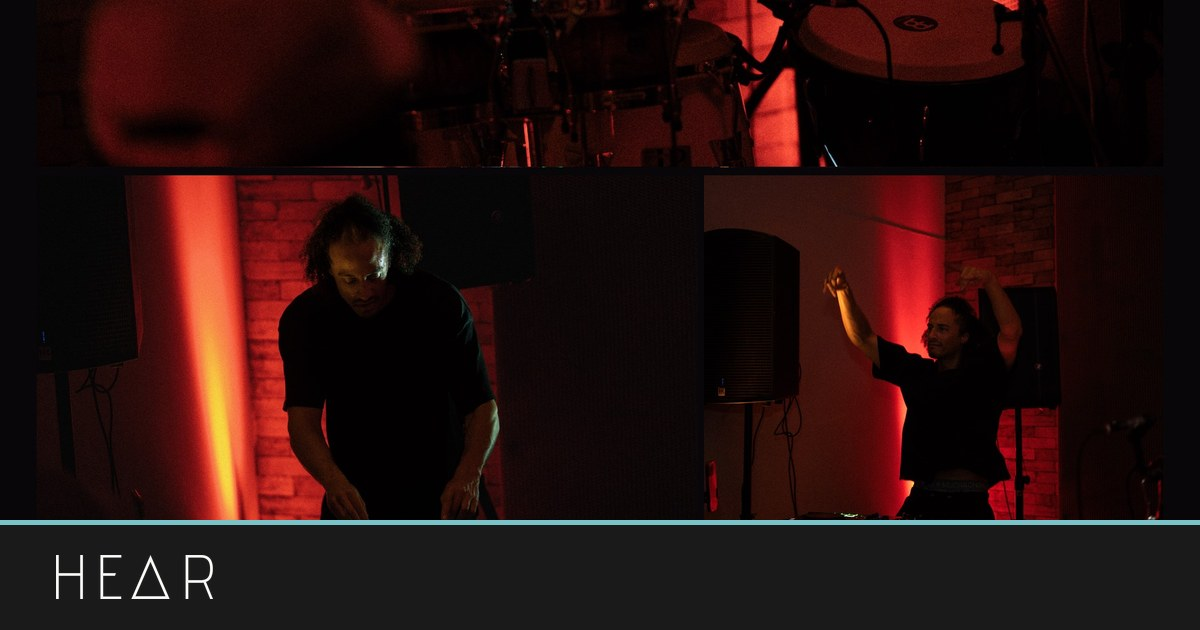
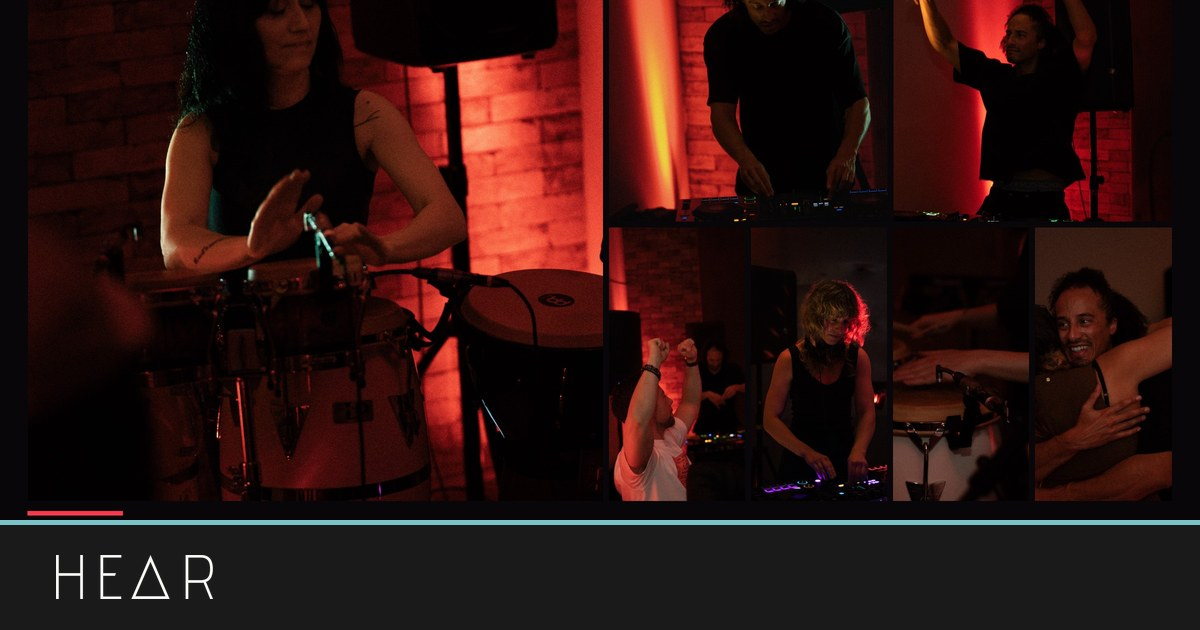
Raw Drums: liggende collage op desktop en in tegels, staande op mobiel (beeld_m)
Claude-Session: https://claude.ai/code/session_01JrXoYcMPPcQnaMa6rutHsx

diff --git a/site/index.html b/site/index.html
@@ -148,7 +148,7 @@
     </div>
   </section>
 
-  <!--nieuws-home--><section class="nieuws-home" aria-labelledby="nieuws-kop"><div class="werk-kop"><h2 id="nieuws-kop">Nieuws en achtergronden</h2><div class="nieuws-pijlen"><button type="button" data-richting="-1" aria-label="Vorige berichten">←</button><button type="button" data-richting="1" aria-label="Volgende berichten">→</button></div></div><div class="werk-rij nieuws-rij" id="nieuws-rij"><a class="werk-kaart" href="/en/nieuws/raw-drums-ade.html"><span class="werk-beeld"><img src="img/nieuws/raw-drums-ade-collage.jpg" alt="Collage van Raw Drums by Melandru tijdens ADE 2026: percussionisten, dj&#x27;s en publiek in rood licht" loading="lazy" style="object-position:center 18%"><span class="bekijk-case">Lees het bericht<i aria-hidden="true">→</i></span></span><time datetime="2026-11-05">5 november 2026</time><h3>HEAR kleurt Raw Drums in dramatisch rood</h3></a><a class="werk-kaart" href="/nieuws/kxm-25-a-floormonitor.html"><span class="werk-beeld"><img src="img/nieuws/kxm-25-a-concert.jpg" alt="RCF KXM 25-A floormonitor met een festivalpodium op de achtergrond" loading="lazy" style="object-position:center 60%"><span class="bekijk-case">Lees het bericht<i aria-hidden="true">→</i></span></span><time datetime="2026-10-17">17 oktober 2026</time><h3>Nieuw in de booth: RCF KXM <span class="heel">25-A</span> floormonitor</h3></a><a class="werk-kaart" href="/nieuws/twee-sets-808-515.html"><span class="werk-beeld"><img src="img/nieuws/808-515-set.jpg" alt="RCF KX 515-A top op een afstandsbuis boven een SUB 808-AS, net uitgepakt" loading="lazy"><span class="bekijk-case">Lees het bericht<i aria-hidden="true">→</i></span></span><time datetime="2026-10-17">17 oktober 2026</time><h3>Nieuw in huis: twee sets RCF SUB <span class="heel">808-AS</span> met KX <span class="heel">515-A</span></h3></a><a class="werk-kaart" href="/prijs.html"><span class="werk-beeld"><img src="img/diensten/yamaha-dm3.jpg" alt="Yamaha DM3 digitale mengtafel" loading="lazy"><span class="bekijk-case">Lees het bericht<i aria-hidden="true">→</i></span></span><time datetime="2026-10-16">16 oktober 2026</time><h3>Wat kost audiovisuele ondersteuning van een evenement eigenlijk?</h3></a><a class="werk-kaart werk-alle" href="/nieuws/"><span>Nieuws en achtergronden</span><span class="pijl" aria-hidden="true">→</span></a></div><script>(function(){var r=document.getElementById("nieuws-rij");document.querySelectorAll(".nieuws-pijlen button").forEach(function(k){k.addEventListener("click",function(){var c=r.querySelector(".werk-kaart");var s=c?c.getBoundingClientRect().width+22:400;r.scrollBy({left:s*k.dataset.richting,behavior:"smooth"});});});})();</script></section><!--/nieuws-home-->
+  <!--nieuws-home--><section class="nieuws-home" aria-labelledby="nieuws-kop"><div class="werk-kop"><h2 id="nieuws-kop">Nieuws en achtergronden</h2><div class="nieuws-pijlen"><button type="button" data-richting="-1" aria-label="Vorige berichten">←</button><button type="button" data-richting="1" aria-label="Volgende berichten">→</button></div></div><div class="werk-rij nieuws-rij" id="nieuws-rij"><a class="werk-kaart" href="/en/nieuws/raw-drums-ade.html"><span class="werk-beeld"><img src="img/nieuws/raw-drums-ade-liggend.jpg" alt="Collage van Raw Drums by Melandru tijdens ADE 2026: percussionisten, dj&#x27;s en publiek in rood licht" loading="lazy"><span class="bekijk-case">Lees het bericht<i aria-hidden="true">→</i></span></span><time datetime="2026-11-05">5 november 2026</time><h3>HEAR kleurt Raw Drums in dramatisch rood</h3></a><a class="werk-kaart" href="/nieuws/kxm-25-a-floormonitor.html"><span class="werk-beeld"><img src="img/nieuws/kxm-25-a-concert.jpg" alt="RCF KXM 25-A floormonitor met een festivalpodium op de achtergrond" loading="lazy" style="object-position:center 60%"><span class="bekijk-case">Lees het bericht<i aria-hidden="true">→</i></span></span><time datetime="2026-10-17">17 oktober 2026</time><h3>Nieuw in de booth: RCF KXM <span class="heel">25-A</span> floormonitor</h3></a><a class="werk-kaart" href="/nieuws/twee-sets-808-515.html"><span class="werk-beeld"><img src="img/nieuws/808-515-set.jpg" alt="RCF KX 515-A top op een afstandsbuis boven een SUB 808-AS, net uitgepakt" loading="lazy"><span class="bekijk-case">Lees het bericht<i aria-hidden="true">→</i></span></span><time datetime="2026-10-17">17 oktober 2026</time><h3>Nieuw in huis: twee sets RCF SUB <span class="heel">808-AS</span> met KX <span class="heel">515-A</span></h3></a><a class="werk-kaart" href="/prijs.html"><span class="werk-beeld"><img src="img/diensten/yamaha-dm3.jpg" alt="Yamaha DM3 digitale mengtafel" loading="lazy"><span class="bekijk-case">Lees het bericht<i aria-hidden="true">→</i></span></span><time datetime="2026-10-16">16 oktober 2026</time><h3>Wat kost audiovisuele ondersteuning van een evenement eigenlijk?</h3></a><a class="werk-kaart werk-alle" href="/nieuws/"><span>Nieuws en achtergronden</span><span class="pijl" aria-hidden="true">→</span></a></div><script>(function(){var r=document.getElementById("nieuws-rij");document.querySelectorAll(".nieuws-pijlen button").forEach(function(k){k.addEventListener("click",function(){var c=r.querySelector(".werk-kaart");var s=c?c.getBoundingClientRect().width+22:400;r.scrollBy({left:s*k.dataset.richting,behavior:"smooth"});});});})();</script></section><!--/nieuws-home-->
 
   <section class="afsluiter afsluiter-kort" aria-label="Contact">
     <span class="wa-plus"><a class="wa" href="aanvraag.html"><span>Plan een gesprek</span><i aria-hidden="true">→</i></a><a class="mail-ook" href="https://wa.me/31624560220?text=Hoi%20Maarten%2C%20ik%20heb%20een%20vraag%20over%20HEAR%20voor%20mijn%20event." target="_blank" rel="noopener" data-whatsapp>Korte vraag? Stuur een appje</a></span>

diff --git a/site/en/index.html b/site/en/index.html
@@ -148,7 +148,7 @@
     </div>
   </section>
 
-  <!--nieuws-home--><section class="nieuws-home" aria-labelledby="nieuws-kop"><div class="werk-kop"><h2 id="nieuws-kop">News and background</h2><div class="nieuws-pijlen"><button type="button" data-richting="-1" aria-label="Previous posts">←</button><button type="button" data-richting="1" aria-label="Next posts">→</button></div></div><div class="werk-rij nieuws-rij" id="nieuws-rij"><a class="werk-kaart" href="/en/nieuws/raw-drums-ade.html"><span class="werk-beeld"><img src="/img/nieuws/raw-drums-ade-collage.jpg" alt="Collage of Raw Drums by Melandru at ADE 2026: percussionists, DJs and crowd in red light" loading="lazy" style="object-position:center 18%"><span class="bekijk-case">Read the post<i aria-hidden="true">→</i></span></span><time datetime="2026-11-05">5 November 2026</time><h3>HEAR colours Raw Drums in dramatic reds</h3></a><a class="werk-kaart" href="/en/nieuws/kxm-25-a-floormonitor.html"><span class="werk-beeld"><img src="/img/nieuws/kxm-25-a-concert.jpg" alt="RCF KXM 25-A floor monitor with a festival stage in the background" loading="lazy" style="object-position:center 60%"><span class="bekijk-case">Read the post<i aria-hidden="true">→</i></span></span><time datetime="2026-10-17">17 October 2026</time><h3>New in the booth: RCF KXM <span class="heel">25-A</span> floor monitor</h3></a><a class="werk-kaart" href="/en/nieuws/twee-sets-808-515.html"><span class="werk-beeld"><img src="/img/nieuws/808-515-set.jpg" alt="RCF KX 515-A top on a pole above a SUB 808-AS, freshly unpacked" loading="lazy"><span class="bekijk-case">Read the post<i aria-hidden="true">→</i></span></span><time datetime="2026-10-17">17 October 2026</time><h3>New in: two sets of RCF SUB <span class="heel">808-AS</span> with KX <span class="heel">515-A</span></h3></a><a class="werk-kaart" href="/en/prijs.html"><span class="werk-beeld"><img src="/img/diensten/yamaha-dm3.jpg" alt="Yamaha DM3 digital mixing console" loading="lazy"><span class="bekijk-case">Read the post<i aria-hidden="true">→</i></span></span><time datetime="2026-10-16">16 October 2026</time><h3>What does audiovisual support for an event actually cost?</h3></a><a class="werk-kaart werk-alle" href="/en/nieuws/"><span>News and background</span><span class="pijl" aria-hidden="true">→</span></a></div><script>(function(){var r=document.getElementById("nieuws-rij");document.querySelectorAll(".nieuws-pijlen button").forEach(function(k){k.addEventListener("click",function(){var c=r.querySelector(".werk-kaart");var s=c?c.getBoundingClientRect().width+22:400;r.scrollBy({left:s*k.dataset.richting,behavior:"smooth"});});});})();</script></section><!--/nieuws-home-->
+  <!--nieuws-home--><section class="nieuws-home" aria-labelledby="nieuws-kop"><div class="werk-kop"><h2 id="nieuws-kop">News and background</h2><div class="nieuws-pijlen"><button type="button" data-richting="-1" aria-label="Previous posts">←</button><button type="button" data-richting="1" aria-label="Next posts">→</button></div></div><div class="werk-rij nieuws-rij" id="nieuws-rij"><a class="werk-kaart" href="/en/nieuws/raw-drums-ade.html"><span class="werk-beeld"><img src="/img/nieuws/raw-drums-ade-liggend.jpg" alt="Collage of Raw Drums by Melandru at ADE 2026: percussionists, DJs and crowd in red light" loading="lazy"><span class="bekijk-case">Read the post<i aria-hidden="true">→</i></span></span><time datetime="2026-11-05">5 November 2026</time><h3>HEAR colours Raw Drums in dramatic reds</h3></a><a class="werk-kaart" href="/en/nieuws/kxm-25-a-floormonitor.html"><span class="werk-beeld"><img src="/img/nieuws/kxm-25-a-concert.jpg" alt="RCF KXM 25-A floor monitor with a festival stage in the background" loading="lazy" style="object-position:center 60%"><span class="bekijk-case">Read the post<i aria-hidden="true">→</i></span></span><time datetime="2026-10-17">17 October 2026</time><h3>New in the booth: RCF KXM <span class="heel">25-A</span> floor monitor</h3></a><a class="werk-kaart" href="/en/nieuws/twee-sets-808-515.html"><span class="werk-beeld"><img src="/img/nieuws/808-515-set.jpg" alt="RCF KX 515-A top on a pole above a SUB 808-AS, freshly unpacked" loading="lazy"><span class="bekijk-case">Read the post<i aria-hidden="true">→</i></span></span><time datetime="2026-10-17">17 October 2026</time><h3>New in: two sets of RCF SUB <span class="heel">808-AS</span> with KX <span class="heel">515-A</span></h3></a><a class="werk-kaart" href="/en/prijs.html"><span class="werk-beeld"><img src="/img/diensten/yamaha-dm3.jpg" alt="Yamaha DM3 digital mixing console" loading="lazy"><span class="bekijk-case">Read the post<i aria-hidden="true">→</i></span></span><time datetime="2026-10-16">16 October 2026</time><h3>What does audiovisual support for an event actually cost?</h3></a><a class="werk-kaart werk-alle" href="/en/nieuws/"><span>News and background</span><span class="pijl" aria-hidden="true">→</span></a></div><script>(function(){var r=document.getElementById("nieuws-rij");document.querySelectorAll(".nieuws-pijlen button").forEach(function(k){k.addEventListener("click",function(){var c=r.querySelector(".werk-kaart");var s=c?c.getBoundingClientRect().width+22:400;r.scrollBy({left:s*k.dataset.richting,behavior:"smooth"});});});})();</script></section><!--/nieuws-home-->
 
   <section class="afsluiter afsluiter-kort" aria-label="Contact">
     <span class="wa-plus"><a class="wa" href="/en/aanvraag.html"><span>Plan a call</span><i aria-hidden="true">→</i></a><a class="mail-ook" href="https://wa.me/31624560220?text=Hi%20Maarten%2C%20I%20have%20a%20question%20about%20HEAR%20for%20my%20event." target="_blank" rel="noopener" data-whatsapp>Quick question? Send a WhatsApp</a></span>

diff --git a/site/nieuws/index.html b/site/nieuws/index.html
@@ -40,7 +40,7 @@
   })();
 </script><main class="wrap">
 <section class="casehead"><a class="crumb" href="/index.html"><span class="sectie">HEAR</span></a><h1>Nieuws en achtergronden</h1></section>
-<section class="case-overzicht"><article class="case-tegel"><img src="/img/nieuws/raw-drums-ade-collage.jpg" alt="Collage van Raw Drums by Melandru tijdens ADE 2026: percussionisten, dj&#x27;s en publiek in rood licht" loading="lazy" style="object-position:center 18%"><div class="case-tekst"><p class="labels"><time datetime="2026-11-05">5 november 2026</time></p><h2><a class="tegel-link" href="/en/nieuws/raw-drums-ade.html">HEAR kleurt Raw Drums in dramatisch rood</a></h2><p>Tijdens ADE bracht Melandru Raw Drums: UK garage/bass house met live percussie, in het rode licht van HEAR.</p><span class="pijl" aria-hidden="true">→</span></div></article><article class="case-tegel"><img src="/img/nieuws/kxm-25-a-concert.jpg" alt="RCF KXM 25-A floormonitor met een festivalpodium op de achtergrond" loading="lazy" style="object-position:center 60%"><div class="case-tekst"><p class="labels"><time datetime="2026-10-17">17 oktober 2026</time></p><h2><a class="tegel-link" href="/nieuws/kxm-25-a-floormonitor.html">Nieuw in de booth: RCF KXM 25-A floormonitor</a></h2><p>Een 15-inch coaxiale floormonitor voor dj&#x27;s die hun monitoring liever onzichtbaar voor het publiek hebben. Krachtig, punchy en coherent.</p><span class="pijl" aria-hidden="true">→</span></div></article><article class="case-tegel"><img src="/img/nieuws/808-515-set.jpg" alt="RCF KX 515-A top op een afstandsbuis boven een SUB 808-AS, net uitgepakt" loading="lazy"><div class="case-tekst"><p class="labels"><time datetime="2026-10-17">17 oktober 2026</time></p><h2><a class="tegel-link" href="/nieuws/twee-sets-808-515.html">Nieuw in huis: twee sets RCF SUB 808-AS met KX 515-A</a></h2><p>Twee compacte sub-topsets die drie dingen kunnen: op zichzelf spelen bij een lezing of intieme cocktailparty, monitoren in de dj-booth, en als frontfill of delay meedraaien in een groter audiosysteem.</p><span class="pijl" aria-hidden="true">→</span></div></article><article class="case-tegel"><img src="/img/diensten/yamaha-dm3.jpg" alt="Yamaha DM3 digitale mengtafel" loading="lazy"><div class="case-tekst"><p class="labels"><time datetime="2026-10-16">16 oktober 2026</time></p><h2><a class="tegel-link" href="/prijs.html">Wat kost audiovisuele ondersteuning van een evenement eigenlijk?</a></h2><p>Bij zakelijke events 10 tot 20 procent van het eventbudget, bij dance events een gangbare huurprijs. Met uurtarieven, dj-tarief en wat de prijs beïnvloedt.</p><span class="pijl" aria-hidden="true">→</span></div></article></section>
+<section class="case-overzicht"><article class="case-tegel"><img src="/img/nieuws/raw-drums-ade-liggend.jpg" alt="Collage van Raw Drums by Melandru tijdens ADE 2026: percussionisten, dj&#x27;s en publiek in rood licht" loading="lazy"><div class="case-tekst"><p class="labels"><time datetime="2026-11-05">5 november 2026</time></p><h2><a class="tegel-link" href="/en/nieuws/raw-drums-ade.html">HEAR kleurt Raw Drums in dramatisch rood</a></h2><p>Tijdens ADE bracht Melandru Raw Drums: UK garage/bass house met live percussie, in het rode licht van HEAR.</p><span class="pijl" aria-hidden="true">→</span></div></article><article class="case-tegel"><img src="/img/nieuws/kxm-25-a-concert.jpg" alt="RCF KXM 25-A floormonitor met een festivalpodium op de achtergrond" loading="lazy" style="object-position:center 60%"><div class="case-tekst"><p class="labels"><time datetime="2026-10-17">17 oktober 2026</time></p><h2><a class="tegel-link" href="/nieuws/kxm-25-a-floormonitor.html">Nieuw in de booth: RCF KXM 25-A floormonitor</a></h2><p>Een 15-inch coaxiale floormonitor voor dj&#x27;s die hun monitoring liever onzichtbaar voor het publiek hebben. Krachtig, punchy en coherent.</p><span class="pijl" aria-hidden="true">→</span></div></article><article class="case-tegel"><img src="/img/nieuws/808-515-set.jpg" alt="RCF KX 515-A top op een afstandsbuis boven een SUB 808-AS, net uitgepakt" loading="lazy"><div class="case-tekst"><p class="labels"><time datetime="2026-10-17">17 oktober 2026</time></p><h2><a class="tegel-link" href="/nieuws/twee-sets-808-515.html">Nieuw in huis: twee sets RCF SUB 808-AS met KX 515-A</a></h2><p>Twee compacte sub-topsets die drie dingen kunnen: op zichzelf spelen bij een lezing of intieme cocktailparty, monitoren in de dj-booth, en als frontfill of delay meedraaien in een groter audiosysteem.</p><span class="pijl" aria-hidden="true">→</span></div></article><article class="case-tegel"><img src="/img/diensten/yamaha-dm3.jpg" alt="Yamaha DM3 digitale mengtafel" loading="lazy"><div class="case-tekst"><p class="labels"><time datetime="2026-10-16">16 oktober 2026</time></p><h2><a class="tegel-link" href="/prijs.html">Wat kost audiovisuele ondersteuning van een evenement eigenlijk?</a></h2><p>Bij zakelijke events 10 tot 20 procent van het eventbudget, bij dance events een gangbare huurprijs. Met uurtarieven, dj-tarief en wat de prijs beïnvloedt.</p><span class="pijl" aria-hidden="true">→</span></div></article></section>
 </main><footer class="voet">
   <div class="voet-kolommen">
     <div class="voet-merk">

diff --git a/site/en/nieuws/index.html b/site/en/nieuws/index.html
@@ -40,7 +40,7 @@
   })();
 </script><main class="wrap">
 <section class="casehead"><a class="crumb" href="/en/index.html"><span class="sectie">HEAR</span></a><h1>News and background</h1></section>
-<section class="case-overzicht"><article class="case-tegel"><img src="/img/nieuws/raw-drums-ade-collage.jpg" alt="Collage of Raw Drums by Melandru at ADE 2026: percussionists, DJs and crowd in red light" loading="lazy" style="object-position:center 18%"><div class="case-tekst"><p class="labels"><time datetime="2026-11-05">5 November 2026</time></p><h2><a class="tegel-link" href="/en/nieuws/raw-drums-ade.html">HEAR colours Raw Drums in dramatic reds</a></h2><p>During ADE, Melandru brought Raw Drums: UK garage/bass house with live percussion, in HEAR&#x27;s red light.</p><span class="pijl" aria-hidden="true">→</span></div></article><article class="case-tegel"><img src="/img/nieuws/kxm-25-a-concert.jpg" alt="RCF KXM 25-A floor monitor with a festival stage in the background" loading="lazy" style="object-position:center 60%"><div class="case-tekst"><p class="labels"><time datetime="2026-10-17">17 October 2026</time></p><h2><a class="tegel-link" href="/en/nieuws/kxm-25-a-floormonitor.html">New in the booth: RCF KXM 25-A floor monitor</a></h2><p>A 15-inch coaxial floor monitor for DJs who prefer their monitoring out of the audience&#x27;s sight. Powerful, punchy and coherent.</p><span class="pijl" aria-hidden="true">→</span></div></article><article class="case-tegel"><img src="/img/nieuws/808-515-set.jpg" alt="RCF KX 515-A top on a pole above a SUB 808-AS, freshly unpacked" loading="lazy"><div class="case-tekst"><p class="labels"><time datetime="2026-10-17">17 October 2026</time></p><h2><a class="tegel-link" href="/en/nieuws/twee-sets-808-515.html">New in: two sets of RCF SUB 808-AS with KX 515-A</a></h2><p>Two compact sub-top sets that can do three things: play on their own at a talk or intimate cocktail party, serve as monitors in the DJ booth, and run as front fill or delay within a larger main system.</p><span class="pijl" aria-hidden="true">→</span></div></article><article class="case-tegel"><img src="/img/diensten/yamaha-dm3.jpg" alt="Yamaha DM3 digital mixing console" loading="lazy"><div class="case-tekst"><p class="labels"><time datetime="2026-10-16">16 October 2026</time></p><h2><a class="tegel-link" href="/en/prijs.html">What does audiovisual support for an event actually cost?</a></h2><p>For business events 10 to 20 percent of the event budget, for dance events a standard rental price. With hourly rates, DJ fee and what affects the price.</p><span class="pijl" aria-hidden="true">→</span></div></article></section>
+<section class="case-overzicht"><article class="case-tegel"><img src="/img/nieuws/raw-drums-ade-liggend.jpg" alt="Collage of Raw Drums by Melandru at ADE 2026: percussionists, DJs and crowd in red light" loading="lazy"><div class="case-tekst"><p class="labels"><time datetime="2026-11-05">5 November 2026</time></p><h2><a class="tegel-link" href="/en/nieuws/raw-drums-ade.html">HEAR colours Raw Drums in dramatic reds</a></h2><p>During ADE, Melandru brought Raw Drums: UK garage/bass house with live percussion, in HEAR&#x27;s red light.</p><span class="pijl" aria-hidden="true">→</span></div></article><article class="case-tegel"><img src="/img/nieuws/kxm-25-a-concert.jpg" alt="RCF KXM 25-A floor monitor with a festival stage in the background" loading="lazy" style="object-position:center 60%"><div class="case-tekst"><p class="labels"><time datetime="2026-10-17">17 October 2026</time></p><h2><a class="tegel-link" href="/en/nieuws/kxm-25-a-floormonitor.html">New in the booth: RCF KXM 25-A floor monitor</a></h2><p>A 15-inch coaxial floor monitor for DJs who prefer their monitoring out of the audience&#x27;s sight. Powerful, punchy and coherent.</p><span class="pijl" aria-hidden="true">→</span></div></article><article class="case-tegel"><img src="/img/nieuws/808-515-set.jpg" alt="RCF KX 515-A top on a pole above a SUB 808-AS, freshly unpacked" loading="lazy"><div class="case-tekst"><p class="labels"><time datetime="2026-10-17">17 October 2026</time></p><h2><a class="tegel-link" href="/en/nieuws/twee-sets-808-515.html">New in: two sets of RCF SUB 808-AS with KX 515-A</a></h2><p>Two compact sub-top sets that can do three things: play on their own at a talk or intimate cocktail party, serve as monitors in the DJ booth, and run as front fill or delay within a larger main system.</p><span class="pijl" aria-hidden="true">→</span></div></article><article class="case-tegel"><img src="/img/diensten/yamaha-dm3.jpg" alt="Yamaha DM3 digital mixing console" loading="lazy"><div class="case-tekst"><p class="labels"><time datetime="2026-10-16">16 October 2026</time></p><h2><a class="tegel-link" href="/en/prijs.html">What does audiovisual support for an event actually cost?</a></h2><p>For business events 10 to 20 percent of the event budget, for dance events a standard rental price. With hourly rates, DJ fee and what affects the price.</p><span class="pijl" aria-hidden="true">→</span></div></article></section>
 </main><footer class="voet">
   <div class="voet-kolommen">
     <div class="voet-merk">

diff --git a/site/nieuws/raw-drums-ade.html b/site/nieuws/raw-drums-ade.html
@@ -40,7 +40,7 @@
   })();
 </script><main class="wrap">
 <section class="casehead"><a class="crumb" href="/nieuws/"><span class="sectie">Nieuws</span></a><p class="label nieuws-datum"><time datetime="2026-11-05">5 november 2026</time></p><h1 class="kernzin">HEAR kleurt Raw Drums in dramatisch rood</h1></section>
-<figure class="casehero passend"><img src="/img/nieuws/raw-drums-ade-collage.jpg" alt="Collage van Raw Drums by Melandru tijdens ADE 2026: percussionisten, dj&#x27;s en publiek in rood licht" style="object-position:center 18%"></figure>
+<figure class="casehero passend met-mobiel"><picture><source media="(max-width:900px)" srcset="/img/nieuws/raw-drums-ade-collage.jpg"><img src="/img/nieuws/raw-drums-ade-liggend.jpg" alt="Collage van Raw Drums by Melandru tijdens ADE 2026: percussionisten, dj&#x27;s en publiek in rood licht"></picture></figure>
 
 <article class="artikel"><p class="lead">Misschien denk je bij Dance Event aan grootschalige dance events: in de vernieuwde Gashouder, in de Ziggo Dome en in de Johan Cruijff ArenA, waar 40.000 mensen samenkwamen voor David Guetta, Armin van Buuren en Afrojack.</p><p>Maar de echte magie ontstaat overdag in workshops en conferences, en aansluitend in de nacht op zo&#x27;n 1.300 kleinere, intieme events verspreid over de stad. Daar ontstaan nieuwe samenwerkingen en spelen nieuw talent en toekomstige sterren voor hun groeiende community.</p><p>Eén van die events was Raw Drums, van Melandru, een Nederlandse dj en live percussionist, die met andere percussionisten een mix van UK garage/bass house en live percussie bracht.</p><p>Ze maakten van de dansvloer een unieke, ritmische ervaring, waarin mensen niet naar de show of de dj kijken, maar deel uitmaken van een interactieve ervaring. Een man-machinegeluid van rollende basslines uit computers en warme handdrums van mensen.</p><p>Om de dramatiek te versterken leverde HEAR zijn sfeervolle washlights. Zo ontstond er een red light zone in Amsterdam, niet te verwarren met het rauwe straatleven, maar een van warmte, diepte en gemeenschap. Precies waar ADE om draait.</p><p class="knoprij"><a class="link" href="/atmospheric-lighting.html">Bekijk het sfeerlicht<i aria-hidden="true">→</i></a></p></article>
 <nav class="verwijzingen" aria-label="Verder"><a href="/nieuws/">Alle berichten →</a><a href="/index.html">Naar de homepage →</a></nav>

diff --git a/site/en/nieuws/raw-drums-ade.html b/site/en/nieuws/raw-drums-ade.html
@@ -40,7 +40,7 @@
   })();
 </script><main class="wrap">
 <section class="casehead"><a class="crumb" href="/en/nieuws/"><span class="sectie">News</span></a><p class="label nieuws-datum"><time datetime="2026-11-05">5 November 2026</time></p><h1 class="kernzin">HEAR colours Raw Drums in dramatic reds</h1></section>
-<figure class="casehero passend"><img src="/img/nieuws/raw-drums-ade-collage.jpg" alt="Collage of Raw Drums by Melandru at ADE 2026: percussionists, DJs and crowd in red light" style="object-position:center 18%"></figure>
+<figure class="casehero passend met-mobiel"><picture><source media="(max-width:900px)" srcset="/img/nieuws/raw-drums-ade-collage.jpg"><img src="/img/nieuws/raw-drums-ade-liggend.jpg" alt="Collage of Raw Drums by Melandru at ADE 2026: percussionists, DJs and crowd in red light"></picture></figure>
 
 <article class="artikel"><p class="lead">When you think of Dance Event, you might think of large-scale dance events: in the renovated Gashouder, in the Ziggo Dome and in the Johan Cruijff ArenA, where 40,000 people came together for David Guetta, Armin van Buuren and Afrojack.</p><p>But the real magic happens during the day at workshops and conferences, and then at night at some 1,300 smaller, intimate events scattered around the city. That&#x27;s where new partnerships form, and where new talent and future stars play for their growing communities.</p><p>One of those events was Raw Drums, by Melandru, a Dutch DJ and live percussionist who brought a blend of UK garage/bass house and live percussion together with other percussionists.</p><p>They transformed the dancefloor into a unique, rhythmic experience where people are not watching the show or the DJ, but are part of an interactive experience. A man-machine sound of rolling basslines from computers and warm hand drums played by humans.</p><p>To heighten the drama, HEAR supplied its atmospheric washlights, creating a red light zone in Amsterdam, not to be confused with the harsh street life, but one of warmth, depth and community. Exactly what ADE is all about.</p><p class="knoprij"><a class="link" href="/en/atmospheric-lighting.html">See ambient lighting<i aria-hidden="true">→</i></a></p></article>
 <nav class="verwijzingen" aria-label="Verder"><a href="/en/nieuws/">All posts →</a><a href="/en/index.html">To the homepage →</a></nav>

diff --git a/site/styles.css b/site/styles.css
@@ -657,3 +657,7 @@ button.knop:disabled{opacity:.6;cursor:wait}
   .ps a.ps-alles{margin-top:8px;color:#aaa;font-size:13px}
 }
 @media (min-width:1101px) and (prefers-reduced-motion:reduce){.ps,.ps-scherm{transition:none}}
+
+/* nieuwsbericht met aparte mobiele (staande) afbeelding: op mobiel de volle breedte, hele beeld */
+.casehero.met-mobiel picture{display:block;height:100%}
+@media (max-width:900px){.casehero.met-mobiel{height:auto}.casehero.met-mobiel picture,.casehero.met-mobiel img{display:block;width:100%;height:auto}}

diff --git a/scripts/bouw-nieuws.py b/scripts/bouw-nieuws.py
@@ -112,7 +112,7 @@ for taal in ("nl", "en"):
         kopregel = f'<section class="quick quick-breed kopregel"><p>{e(v(b, "kop", taal))}</p></section>' if b.get("kop") else ""
         main = f'''<main class="wrap">
 <section class="casehead"><a class="crumb" href="{pre}/nieuws/"><span class="sectie">{T["nieuws"]}</span></a><p class="label nieuws-datum"><time datetime="{b["datum"]}">{datum(b["datum"], taal)}</time></p><h1 class="kernzin">{e(v(b, "titel", taal))}</h1></section>
-<figure class="casehero{passend}"><img src="/{e(b["beeld"])}" alt="{e(v(b, "beeld_alt", taal) or "")}"{pos}></figure>
+<figure class="casehero{passend}{" met-mobiel" if b.get("beeld_m") else ""}">{("<picture><source media=\"(max-width:900px)\" srcset=\"/" + e(b["beeld_m"]) + "\">") if b.get("beeld_m") else ""}<img src="/{e(b["beeld"])}" alt="{e(v(b, "beeld_alt", taal) or "")}"{pos}>{"</picture>" if b.get("beeld_m") else ""}</figure>
 {kopregel}
 <article class="artikel"><p class="lead">{e(lead)}</p>{lopend}{knop}</article>
 <nav class="verwijzingen" aria-label="Verder"><a href="{pre}/nieuws/">{T["alle"]}</a><a href="{T["home_href"]}">{T["home"]}</a></nav>

diff --git a/docs/besluiten.md b/docs/besluiten.md
@@ -451,4 +451,4 @@ Nieuws: de EN-knop op nieuwspagina's leidt naar de Engelse homepage (ging naar d
 - EN-versie (2 nov): srcset-paden worden in bouw-en.py nu ook absoluut gemaakt, zodat de staande mobiele beelden op /en/ laden.
 - Productblok homepage desktop (3 nov, teruggedraaid): na live bekijken toch terug naar de lijst links met beeld rechts. Reden (Maarten): de dropdown-versie is te dun en verstopt te veel informatie.
 - Overzichtspagina diensten.html (4 nov): op desktop staat de productselector (beeld met keuzeknop, lead van de landingspagina, knop "Bekijk alle …", link "Of bekijk alles hieronder ↓") boven de tegels, met kopje "Alle producten en diensten" ertussen. Op mobiel niet (daar zit de selector al op de homepage). Homepage blijft lijst + beeld. CSS onderaan home.css onder .pl-ov; EN via en.json › paginas › diensten.html.
-- Nieuws Raw Drums (5 nov; titel zonder "ADE |", beeld = staande collage met ADE-label, hele beeld getoond): bericht over Melandru's Raw Drums tijdens ADE, met HEAR's washlights. Standaard Engels: nieuwe vlag "standaard_en" in nieuws.json laat de NL-homepage en het NL-nieuwsoverzicht naar /en/nieuws/<slug>.html linken; de NL-versie bestaat ook, via de NL-knop. Beeld: liggende collage (foto's 32, 27, 39). Knop naar Sfeerlicht. Voor socials een staande collage met ADE-label als tab bovenaan (verhoudingen Armada-voorbeeld: tab 12,6% breed, halve tabbreedte van de rechterrand).
+- Nieuws Raw Drums (5 nov; titel zonder "ADE |", desktop en tegels: liggende collage 3:2; mobiel: staande collage via nieuw veld beeld_m): bericht over Melandru's Raw Drums tijdens ADE, met HEAR's washlights. Standaard Engels: nieuwe vlag "standaard_en" in nieuws.json laat de NL-homepage en het NL-nieuwsoverzicht naar /en/nieuws/<slug>.html linken; de NL-versie bestaat ook, via de NL-knop. Beeld: liggende collage (foto's 32, 27, 39). Knop naar Sfeerlicht. Voor socials een staande collage met ADE-label als tab bovenaan (verhoudingen Armada-voorbeeld: tab 12,6% breed, halve tabbreedte van de rechterrand).
